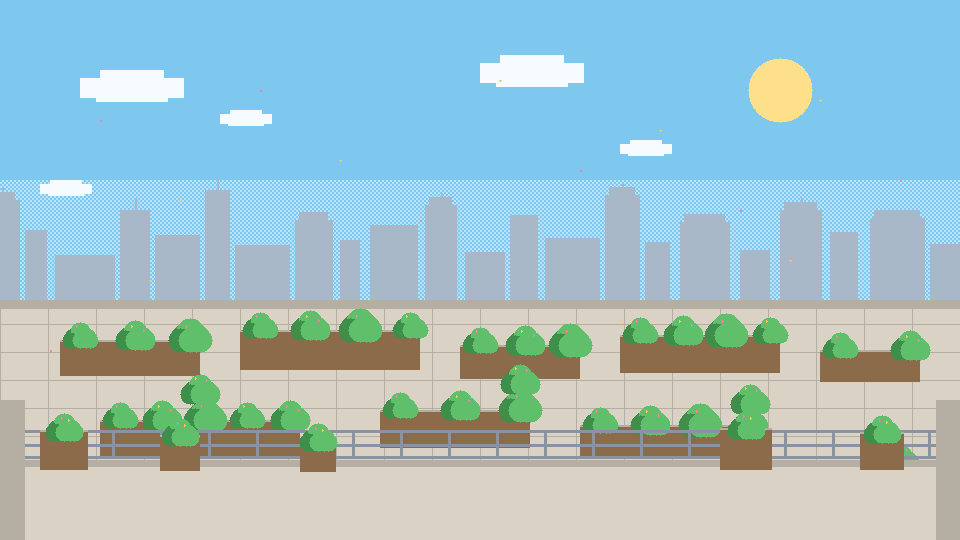
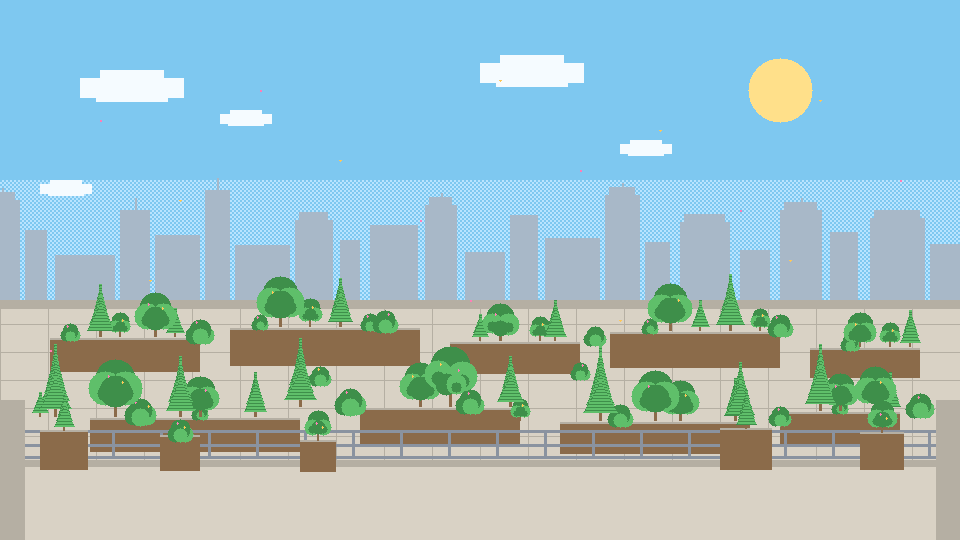
Split the garden into plant layers and add wind sway.
Deck stays still. Far, mid, and near trees rotate on a linear triangle about their feet while the 400px roof pan stays.

Changed region(s): [[0.0312, 0.5037, 1.0, 0.8593], [0.9375, 0.8296, 0.9688, 0.8593]]

diff --git a/remotion-pixel-rooftop-garden/src/PixelRooftopGarden.tsx b/remotion-pixel-rooftop-garden/src/PixelRooftopGarden.tsx
@@ -10,11 +10,13 @@ import {
 
 /**
  * Palette and 960×540 canvas stay on SPEC.md.
- * Parallax is widened so the distance reads: far almost parked, near outruns mid.
- * One characterless landscape. Linear horizontal pan only.
+ * Pan ratios stay exaggerated so the roof outruns the city.
+ * Plant layers sway on a piecewise-linear triangle (no sine, no easing).
  *
  * Ratios (exact fractions, not a shared step):
- *   sky 0.02 (1/50) / city 0.12 (3/25) / garden 0.55 (11/20) / roof 1 / petals 1.25 (5/4)
+ *   sky 0.02 (1/50) / city 0.12 (3/25) / garden-base 0.5 (1/2)
+ *   plants-far 0.45 (9/20) / plants-mid 0.55 (11/20) / plants-near 0.7 (7/10)
+ *   roof 1 / petals 1.25 (5/4)
  */
 export const PIXEL_ROOFTOP_GARDEN = {
   fps: 24,
@@ -46,6 +48,20 @@ const ROOF_BAYS = Math.ceil(CAMERA_TRAVEL / ROOF_BAY_W) + 1;
 /** Gentle independent fall. 1px every 4 frames — not tied to the camera. */
 const PETAL_Y_NUM = 1;
 const PETAL_Y_DEN = 4;
+/** Extra horizontal breeze on the petals, piecewise linear, ±16px. */
+const PETAL_WIND_AMP = 16;
+const PETAL_WIND_PERIOD = 240;
+const PETAL_WIND_PHASE = 80;
+
+/**
+ * Whole-layer wind. Pivot Y is the opaque foot line of that PNG.
+ * Periods and phases differ so the three bands do not peak together.
+ */
+export const SWAY = {
+  far: { amp: 0.6, period: 192, phase: 0, pivotY: 420 },
+  mid: { amp: 1.2, period: 144, phase: 48, pivotY: 427 },
+  near: { amp: 2.2, period: 120, phase: 30, pivotY: 420 },
+} as const;
 
 const SKY = "#B8E4FF";
 
@@ -72,6 +88,21 @@ export const cameraTravel = (frame: number) =>
 /** Integer px. num/den keeps 0.02 from collapsing into another layer's step. */
 export const layerShift = (frame: number, num: number, den: number) =>
   Math.round((cameraTravel(frame) * num) / den);
+
+/** Piecewise-linear triangle in [-1, 1]. Peaks reverse direction with no ease. */
+export const swayUnit = (frame: number, period: number, phase: number) => {
+  const wrapped = (((frame + phase) % period) + period) % period;
+  const half = period / 2;
+  if (wrapped <= half) {
+    return -1 + (wrapped / half) * 2;
+  }
+  return 1 - ((wrapped - half) / half) * 2;
+};
+
+const swayDegrees = (
+  frame: number,
+  layer: { amp: number; period: number; phase: number },
+) => swayUnit(frame, layer.period, layer.phase) * layer.amp;
 
 const PlacedImg: FC<{
   file: string;
@@ -112,6 +143,34 @@ const ExtendedPlate: FC<{ file: string; offset: number; width: number }> = ({
     <PlacedImg file={file} left={width - offset} width={width} />
   </AbsoluteFill>
 );
+
+/** Same plate as ExtendedPlate, rotated about the planter feet. Deck and roof stay at 0°. */
+const SwayPlate: FC<{
+  file: string;
+  offset: number;
+  degrees: number;
+  pivotY: number;
+}> = ({ file, offset, degrees, pivotY }) => {
+  const { width, height } = PIXEL_ROOFTOP_GARDEN;
+  return (
+    <AbsoluteFill style={{ overflow: "hidden" }}>
+      <div
+        style={{
+          position: "absolute",
+          left: 0,
+          top: 0,
+          width,
+          height,
+          transformOrigin: `50% ${pivotY}px`,
+          transform: `rotate(${degrees}deg)`,
+        }}
+      >
+        <PlacedImg file={file} left={-offset} width={width} />
+        <PlacedImg file={file} left={width - offset} width={width} />
+      </div>
+    </AbsoluteFill>
+  );
+};
 
 /** Roof continuation: repeat one clean railing bay. The pier stays on the original plate. */
 const RoofBays: FC<{ offset: number }> = ({ offset }) => {
@@ -192,9 +251,16 @@ export const PixelRooftopGarden: FC = () => {
   const { width } = PIXEL_ROOFTOP_GARDEN;
   const sky = layerShift(frame, 1, 50);
   const city = layerShift(frame, 3, 25);
-  const garden = layerShift(frame, 11, 20);
+  const gardenBase = layerShift(frame, 1, 2);
+  const plantsFar = layerShift(frame, 9, 20);
+  const plantsMid = layerShift(frame, 11, 20);
+  const plantsNear = layerShift(frame, 7, 10);
   const roof = layerShift(frame, 1, 1);
-  const petalsX = layerShift(frame, 5, 4);
+  const petalsX =
+    layerShift(frame, 5, 4) +
+    Math.round(
+      swayUnit(frame, PETAL_WIND_PERIOD, PETAL_WIND_PHASE) * PETAL_WIND_AMP,
+    );
   const petalsY = Math.round((frame * PETAL_Y_NUM) / PETAL_Y_DEN);
 
   return (
@@ -208,9 +274,27 @@ export const PixelRooftopGarden: FC = () => {
         />
       </AbsoluteFill>
       <ExtendedPlate
-        file="pixel/garden-mid.png"
-        offset={garden}
+        file="pixel/garden-base.png"
+        offset={gardenBase}
         width={width}
+      />
+      <SwayPlate
+        file="pixel/plants-far.png"
+        offset={plantsFar}
+        degrees={swayDegrees(frame, SWAY.far)}
+        pivotY={SWAY.far.pivotY}
+      />
+      <SwayPlate
+        file="pixel/plants-mid.png"
+        offset={plantsMid}
+        degrees={swayDegrees(frame, SWAY.mid)}
+        pivotY={SWAY.mid.pivotY}
+      />
+      <SwayPlate
+        file="pixel/plants-near.png"
+        offset={plantsNear}
+        degrees={swayDegrees(frame, SWAY.near)}
+        pivotY={SWAY.near.pivotY}
       />
       <AbsoluteFill style={{ overflow: "hidden" }}>
         <RoofBays offset={roof} />

diff --git a/remotion-pixel-rooftop-garden/SPEC.md b/remotion-pixel-rooftop-garden/SPEC.md
@@ -1,6 +1,6 @@
 # ピクセル屋上庭園 — アセット仕様書（固定）
 
-> **ロック済み。** 以降パレット・解像度・レイヤー構成は変更しない。
+> **ロック済み。** パレット・解像度・カメラ方針は変更しない。植物は風用にレイヤー分割済み。
 
 ## 概要
 
@@ -26,9 +26,9 @@
 | Roof shadow | `#B5AFA3` |
 | Rail / metal | `#8A93A0` |
 | Distant city | `#A8B8C8` |
-| Soil / planter | `#8B6B4A` |
+| Soil / planter / trunk | `#8B6B4A` |
 
-花アクセントは上記2色のみ。パレット外の色を追加しない。
+花アクセントは上記2色のみ。パレット外の色を追加しない。幹は Soil 色を使用。
 
 ## 解像度
 
@@ -38,17 +38,52 @@
 | 表示想定 | 1920×1080（nearest ×2） |
 | 描画手法 | 小キャンバスで真ピクセル描画 → 必要時のみ nearest アップスケール |
 
-## レイヤー（パララックス対応 PNG、透過可）
+## 植物バリエティ規則
 
-| # | ファイル | 内容 | 推奨サイズ |
-|---|----------|------|------------|
-| 1 | `sky.png` | グラデーション空 + 柔らかい雲 + 太陽 | 960×540 または横に広いタイル可 |
-| 2 | `city-far.png` | 遠いヘイズ付きスカイライン（低ディテール） | ≥960幅、推奨 1280+ × 高さは天空線帯 |
-| 3 | `garden-mid.png` | プランター・低木・花（中景屋上） | 960×540 |
-| 4 | `roof-near.png` | 前景の屋上端・手すり・手前の鉢 | 960×540 |
-| 5 | `fx-petals.png`（任意） | 花びら散布スプライトシート／単フレーム。または Remotion パーティクルで代替可 | 透過 PNG |
+単調な同形の丸い低木だけを並べない。次を混在させる。
 
-全レイヤーは背景透過（空レイヤー除く）。合成時は下から 1→4（→5）の順。
+| タイプ | シルエット | 高さ帯 | 備考 |
+|--------|------------|--------|------|
+| **針葉樹（conifer）** | 高い三角形／尖った層状 | 中〜高（約 24〜74px） | 層状トライアングル、幹あり |
+| **広葉樹（broadleaf）** | 複数ローブの丸い樹冠 | 短〜高（樹冠半径約 8〜22px） | 幹あり、花アクセント可 |
+| **低木（shrub）** | 低い丸い茂み | 短（半径約 7〜12px） | 幹なし／極短、花アクセント可 |
+
+- プランター列ごとに高さ・タイプをばらす（短・中・高が隣り合う）
+- 葉色は Foliage main / Foliage shadow のみ
+- 花は Flower A / B の点描のみ
+
+## レイヤー（パララックス＋風スウェイ対応 PNG、透過可）
+
+| # | ファイル | 内容 | 推奨サイズ | 風スウェイ |
+|---|----------|------|------------|------------|
+| 1 | `sky.png` | グラデーション空 + 柔らかい雲 + 太陽 | 960×540 | なし |
+| 2 | `city-far.png` | 遠いヘイズ付きスカイライン（低ディテール） | ≥960幅、推奨 1280+ × 天空線帯 | なし |
+| 3 | `garden-base.png` | 屋上デッキ床 + プランターのみ（植物なし・静止） | 960×540 | なし |
+| 3b | `garden-mid.png` | `garden-base.png` と同内容（後方互換エイリアス） | 960×540 | なし |
+| 4 | `plants-far.png` | 遠景の小さめの木・低木 | 960×540 | **小** |
+| 5 | `plants-mid.png` | 中景の主樹冠（針葉＋広葉＋低木の混在） | 960×540 | **中** |
+| 6 | `plants-near.png` | 手前の高い針葉アクセント＋大きめ広葉 | 960×540 | **大（それでも控えめ）** |
+| 7 | `roof-near.png` | 前景の屋上端・手すり・手前の鉢 | 960×540 | なし（鉢内植物はレイヤー固定） |
+| 8 | `fx-petals.png`（任意） | 花びら散布。または Remotion パーティクルで代替可 | 透過 PNG | 独自ドリフト可 |
+
+合成順（下→上）: 1 → 2 → 3 → 4 → 5 → 6 → 7 →（8）
+
+全レイヤーは背景透過（空レイヤー除く）。
+
+## 風スウェイ（Remotion 提案値）
+
+各植物レイヤーを独立にわずかに回転（線形補間のみ。イージング過多禁止）。
+
+| レイヤー | 推奨回転振幅 | 備考 |
+|----------|--------------|------|
+| `plants-far` | ±0.4°〜±0.8° | 遠いので小さく |
+| `plants-mid` | ±1.0°〜±1.5° | 中程度 |
+| `plants-near` | ±1.8°〜±2.5° | 手前寄りだが過度にしない |
+| `garden-base` / `roof-near` / sky / city | 0° | 静止 |
+
+- 回転原点は各レイヤー下端付近（プランター足元）を想定
+- 周期は層ごとにわずかにずらし（位相オフセット）て単調同期を避ける
+- **風ドリフト FX（任意）:** `fx-petals.png` を横に流す、または Remotion パーティクル（花びら色 `#FF7EB6` / `#FFC857`）で風を補強可。必須ではない
 
 ## パララックス比（提案）
 
@@ -56,7 +91,10 @@
 |----------|------|
 | sky | 0.05 |
 | city-far | 0.2 |
-| garden-mid | 0.5 |
+| garden-base（／garden-mid） | 0.5 |
+| plants-far | 0.45 |
+| plants-mid | 0.55 |
+| plants-near | 0.7 |
 | roof-near | 1.0 |
 | fx-petals | 1.1〜1.3（前景寄り）またはカメラ非連動の独自ドリフト |
 
@@ -81,10 +119,15 @@
 - [x] `SPEC.md`（本ファイル）
 - [x] `sky.png`
 - [x] `city-far.png`
-- [x] `garden-mid.png`
+- [x] `garden-base.png`（静止デッキ＋プランター）
+- [x] `garden-mid.png`（base エイリアス）
+- [x] `plants-far.png`
+- [x] `plants-mid.png`
+- [x] `plants-near.png`
 - [x] `roof-near.png`
 - [x] `fx-petals.png`（任意）
 - [x] `preview-static.png`（960×540 合成静止画）
 - [x] `README.md`（絶対パス一覧）
+- [x] `generate_assets.py`
 
 Remotion プロジェクト本体は本パッケージに含めない。
